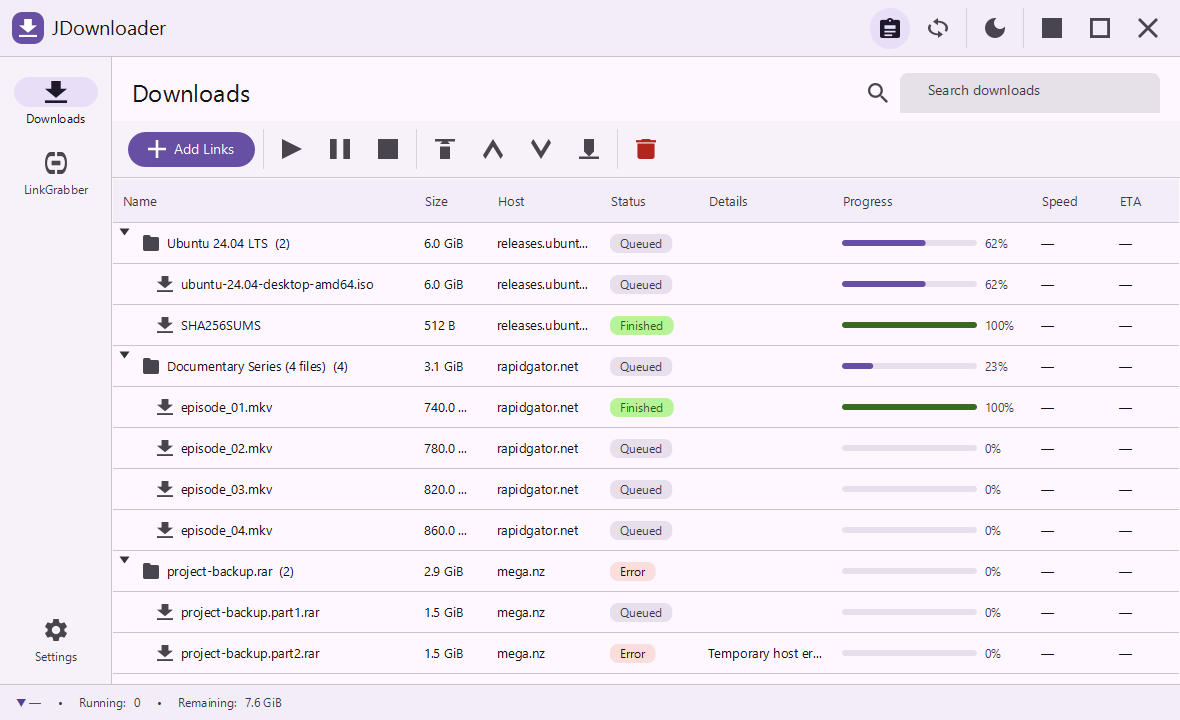
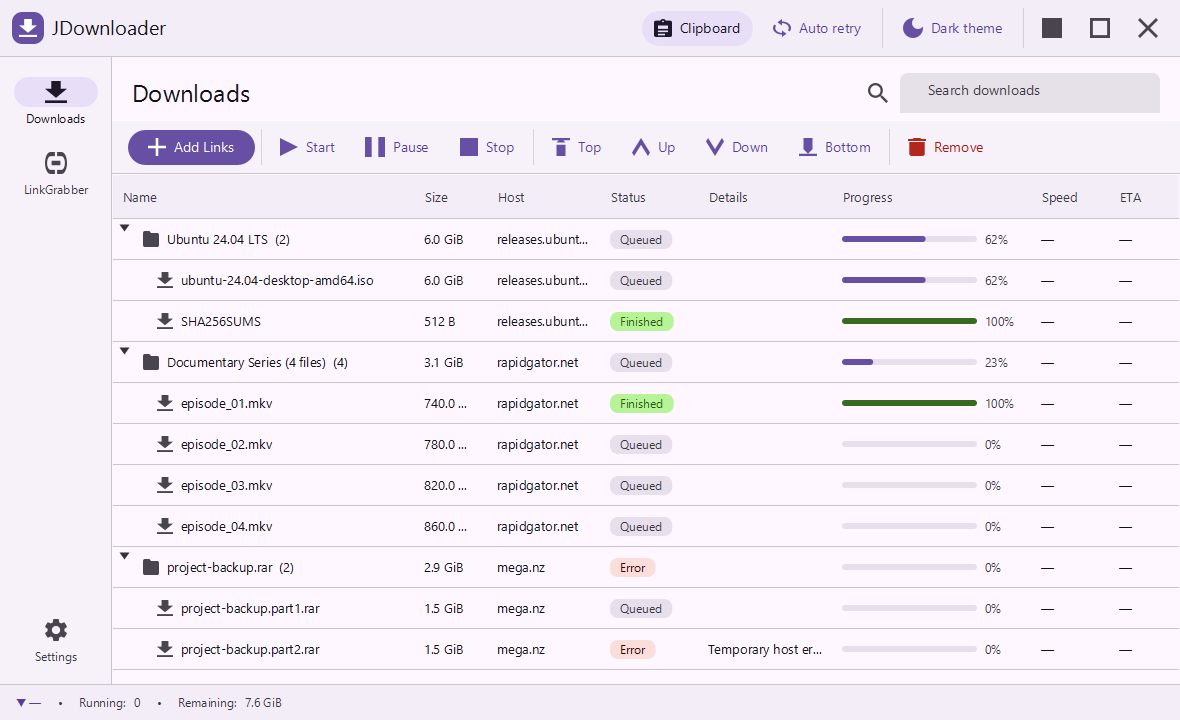
Label app toolbar actions

diff --git a/src/main/resources/css/material.css b/src/main/resources/css/material.css
@@ -202,6 +202,8 @@
     -fx-cursor: hand;
 }
 .text-button:hover { -fx-background-color: -md-hover-overlay; }
+.text-button.danger { -fx-text-fill: -md-error; -mfx-text-fill: -md-error; }
+.text-button.danger .mat-icon { -fx-background-color: -md-error; }
 
 .icon-button {
     -fx-background-color: transparent;
@@ -221,6 +223,12 @@
 .icon-button.danger .mat-icon { -fx-background-color: -md-error; }
 .icon-button.active { -fx-background-color: -md-secondary-container; }
 .icon-button.active .mat-icon { -fx-background-color: -md-on-secondary-container; }
+.text-button.active {
+    -fx-background-color: -md-secondary-container;
+    -fx-text-fill: -md-on-secondary-container;
+    -mfx-text-fill: -md-on-secondary-container;
+}
+.text-button.active .mat-icon { -fx-background-color: -md-on-secondary-container; }
 
 /* ------------------------------------------------------------- Toolbar */
 .action-toolbar {

diff --git a/src/main/java/org/jdownloader/material/ui/view/DownloadsView.java b/src/main/java/org/jdownloader/material/ui/view/DownloadsView.java
@@ -19,6 +19,7 @@ import javafx.scene.control.TreeItem;
 import javafx.scene.control.TreeTableColumn;
 import javafx.scene.control.TreeTableView;
 import javafx.scene.layout.BorderPane;
+import javafx.scene.layout.FlowPane;
 import javafx.scene.layout.HBox;
 import javafx.scene.layout.Priority;
 import javafx.scene.layout.VBox;
@@ -84,34 +85,42 @@ public final class DownloadsView extends BorderPane {
         var addLinks = Mat.filled("Add Links", "add");
         addLinks.setOnAction(e -> openAddLinks.run());
 
-        var start = Mat.icon("play", "Start downloads");
+        var start = Mat.text("Start", "play");
+        Mat.tip(start, "Start downloads");
         start.setOnAction(e -> engine.start());
-        var pause = Mat.icon("pause", "Pause");
+        var pause = Mat.text("Pause", "pause");
         pause.setOnAction(e -> engine.pause(!engine.pausedProperty().get()));
         Runnable updatePause = () -> {
             boolean isPaused = engine.pausedProperty().get();
+            pause.setText(isPaused ? "Resume" : "Pause");
             pause.setGraphic(org.jdownloader.material.ui.Icons.of(isPaused ? "play" : "pause", 20));
             Mat.tip(pause, isPaused ? "Resume downloads" : "Pause downloads");
         };
         updatePause.run();
         engine.pausedProperty().addListener((o, wasPaused, isPaused) -> updatePause.run());
-        var stop = Mat.icon("stop", "Stop all");
+        var stop = Mat.text("Stop", "stop");
+        Mat.tip(stop, "Stop all downloads");
         stop.setOnAction(e -> engine.stop());
 
-        var top = Mat.icon("top", "Move to top");
+        var top = Mat.text("Top", "top");
+        Mat.tip(top, "Move selected package to top");
         top.setOnAction(e -> move(Move.TOP));
-        var up = Mat.icon("up", "Move up");
+        var up = Mat.text("Up", "up");
+        Mat.tip(up, "Move selected package up");
         up.setOnAction(e -> move(Move.UP));
-        var down = Mat.icon("down", "Move down");
+        var down = Mat.text("Down", "down");
+        Mat.tip(down, "Move selected package down");
         down.setOnAction(e -> move(Move.DOWN));
-        var bottom = Mat.icon("bottom", "Move to bottom");
+        var bottom = Mat.text("Bottom", "bottom");
+        Mat.tip(bottom, "Move selected package to bottom");
         bottom.setOnAction(e -> move(Move.BOTTOM));
 
-        var remove = Mat.icon("delete", "Remove selected");
+        var remove = Mat.text("Remove", "delete");
+        Mat.tip(remove, "Remove selected");
         remove.getStyleClass().add("danger");
         remove.setOnAction(e -> removeSelected());
 
-        HBox bar = new HBox(6, addLinks, Mat.vSep(), start, pause, stop, Mat.vSep(),
+        FlowPane bar = new FlowPane(6, 4, addLinks, Mat.vSep(), start, pause, stop, Mat.vSep(),
                 top, up, down, bottom, Mat.vSep(), remove);
         bar.getStyleClass().add("action-toolbar");
         bar.setAlignment(Pos.CENTER_LEFT);

diff --git a/src/main/java/org/jdownloader/material/ui/MainWindow.java b/src/main/java/org/jdownloader/material/ui/MainWindow.java
@@ -162,15 +162,19 @@ public final class MainWindow extends StackPane {
         VBox titleBox = new VBox(-2, title);
         titleBox.setAlignment(Pos.CENTER_LEFT);
 
-        var clipboard = toggleIcon("paste", "Clipboard monitoring", engine.settings().clipboardMonitoringProperty());
-        var autoReconnect = toggleIcon("reconnect", "Retry transient HTTP failures", engine.settings().autoReconnectProperty());
+        var clipboard = toggleAction("paste", "Clipboard", "Clipboard monitoring",
+                engine.settings().clipboardMonitoringProperty());
+        var autoReconnect = toggleAction("reconnect", "Auto retry", "Retry transient HTTP failures",
+                engine.settings().autoReconnectProperty());
 
-        var themeToggle = Mat.icon(theme.isDark() ? "sun" : "moon",
-                theme.isDark() ? "Switch to light theme" : "Switch to dark theme");
+        var themeToggle = Mat.text(theme.isDark() ? "Light theme" : "Dark theme",
+                theme.isDark() ? "sun" : "moon");
         Runnable updateThemeToggle = () -> {
+            themeToggle.setText(theme.isDark() ? "Light theme" : "Dark theme");
             themeToggle.setGraphic(Icons.of(theme.isDark() ? "sun" : "moon", 20));
             Mat.tip(themeToggle, theme.isDark() ? "Switch to light theme" : "Switch to dark theme");
         };
+        updateThemeToggle.run();
         themeToggle.setOnAction(e -> theme.toggle());
         theme.darkProperty().addListener((o, wasDark, isDark) -> updateThemeToggle.run());
 
@@ -229,9 +233,10 @@ public final class MainWindow extends StackPane {
         return false;
     }
 
-    /** A 40dp icon button that reflects and toggles a boolean setting. */
-    private MFXButton toggleIcon(String icon, String tip, BooleanProperty prop) {
-        MFXButton b = Mat.icon(icon, tip);
+    /** A labelled app-bar action that reflects and toggles a boolean setting. */
+    private MFXButton toggleAction(String icon, String text, String tip, BooleanProperty prop) {
+        MFXButton b = Mat.text(text, icon);
+        Mat.tip(b, tip);
         Runnable restyle = () -> {
             b.getStyleClass().remove("active");
             if (prop.get()) b.getStyleClass().add("active");

diff --git a/src/main/java/org/jdownloader/material/ui/view/LinkGrabberView.java b/src/main/java/org/jdownloader/material/ui/view/LinkGrabberView.java
@@ -96,7 +96,8 @@ public final class LinkGrabberView extends BorderPane {
             engine.confirmAll(engine.settings().autoStartProperty().get());
         });
 
-        var remove = Mat.icon("delete", "Remove selected");
+        var remove = Mat.text("Remove", "delete");
+        Mat.tip(remove, "Remove selected");
         remove.getStyleClass().add("danger");
         remove.setOnAction(e -> removeSelected());
 

diff --git a/docs/UI_GUIDE.md b/docs/UI_GUIDE.md
@@ -12,8 +12,9 @@ containers, accounts, CAPTCHA handling, or full crawler.
 
 - **Top app bar** - identifies the application and holds clipboard monitoring, the
   automatic transient-failure retry setting, theme, minimize, maximize/restore, and close
-  controls. Drag an unused portion of the bar to move the window; double-click it to maximize or
-  restore it.
+  controls. The app actions pair icons with text labels; only the familiar native-style window
+  controls remain compact icons. Drag an unused portion of the bar to move the window;
+  double-click it to maximize or restore it.
 - **Navigation rail** - switches between Downloads, LinkGrabber, and Settings while preserving
   the shell and status bar. Add Links opens as its own inline view from the transfer screens.
 - **Status bar** - reports global transfer speed, active download count, remaining bytes, and
@@ -27,7 +28,8 @@ Downloads is a package-to-file tree with Name, Size, Host, Status, Progress, Spe
 inline Details for a direct-transfer error or collision result.
 Package rows aggregate their children. The toolbar holds the transfer and ordering actions, and
 search filters the tree live. Start, pause, stop, and state changes appear directly in the table
-and status bar rather than requiring acknowledgement.
+and status bar rather than requiring acknowledgement. Each toolbar action pairs its icon with a
+short visible label, so users do not have to infer controls from artwork alone.
 
 For direct HTTP(S) files, the engine streams bytes in background workers. The scheduler honors the
 global simultaneous-download setting and the per-host connection setting. Pause holds active
